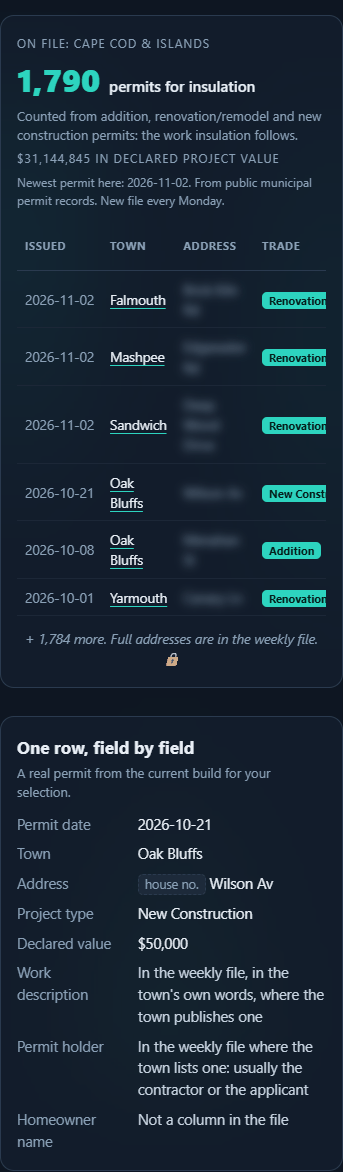
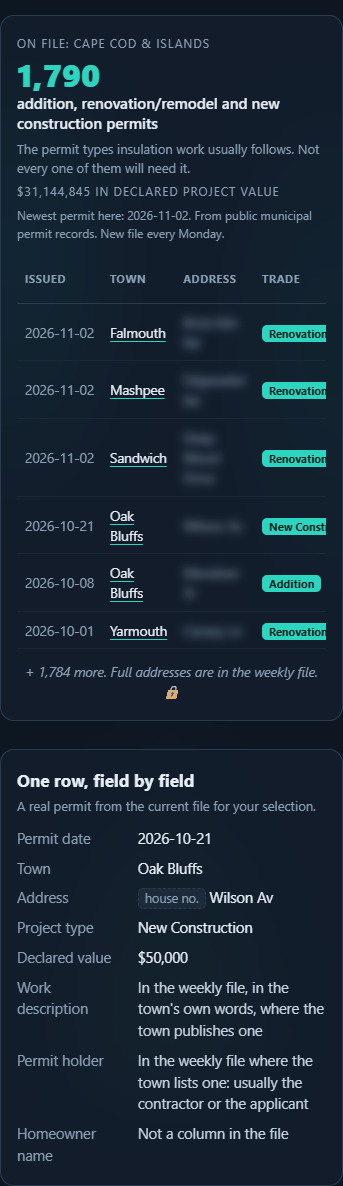
Conversion: fixes from an independent review (quiet towns, village aliases, follow-on count label, softer email wording, escaping, data.json fallback, 16px agents inputs); doc and screenshots updated

diff --git a/index.html b/index.html
@@ -125,8 +125,8 @@
   .secsub{color:var(--muted);margin:0 0 14px;font-size:15px}
   .live{background:var(--panel);border:1px solid var(--border);border-radius:14px;margin:14px 0;padding:18px 16px;min-width:0}
   .live .lbl{font-size:12px;text-transform:uppercase;letter-spacing:.08em;color:var(--muted)}
-  .live .big{font-size:32px;font-weight:800;color:var(--teal);margin:3px 0}
-  .live .big small{font-size:15px;color:var(--text);font-weight:600}
+  .live .big{font-size:32px;font-weight:800;color:var(--teal);margin:3px 0;line-height:1.2}
+  .live .big small{display:inline-block;font-size:15px;color:var(--text);font-weight:600;line-height:1.35}
   .live .types{font-size:13px;color:var(--muted);margin:2px 0 4px}
   table{width:100%;border-collapse:collapse;margin-top:14px;font-size:13.5px}
   th{text-align:left;color:var(--muted);font-size:11px;text-transform:uppercase;letter-spacing:.05em;
@@ -141,7 +141,7 @@
   .lockline{text-align:center;color:var(--muted);font-style:italic;font-size:13.5px;margin:12px 0 0}
   .lockline:empty{display:none}
 
-  /* One real row from the current build, field by field: what the weekly file holds and
+  /* One real row from the current file, field by field: what the weekly file holds and
      what this free page hides. Values come from data.json at run time. */
   .proof{display:grid;grid-template-columns:minmax(0,1fr);gap:14px}
   .rowcard{background:var(--panel);border:1px solid var(--border);border-radius:14px;padding:18px 16px;min-width:0}
@@ -301,12 +301,12 @@
           <input type="email" id="email" name="email" autocomplete="email" inputmode="email" autocapitalize="none" spellcheck="false" placeholder="you@yourcompany.com" aria-describedby="signup-err" required>
         </div>
         <button class="cta" type="submit" id="sample-submit">Send my free sample</button>
-        <p class="fine">You get a download link right here and a copy by email, then two short follow-ups over the next week. Reply stop to end them.</p>
+        <p class="fine">You get a download link right here, and the sample by email, then two short follow-ups over the next week. Reply stop to end them.</p>
       </form>
       <div class="ok" id="signup-ok" tabindex="-1" style="display:none">
         <p class="okhead">&#10003; Got it. Your free sample is ready.</p>
         <a class="cta" id="sample-dl" href="/api/sample">Download the free sample</a>
-        <p class="fine" style="margin-top:10px">It is a ZIP file. Open MassPermits-Leads.html inside it in any web browser; that is easiest on a computer. The same link is in your inbox.</p>
+        <p class="fine" style="margin-top:10px">It is a ZIP file. Open MassPermits-Leads.html inside it in any web browser; that is easiest on a computer. Check your inbox for a copy too.</p>
         <div class="okfeed">
           <p>The weekly file has every full address, every Monday.</p>
           <a class="cta ghost" id="sample-feed-cta" href="#get">Subscribe: $99 a month</a>
@@ -325,7 +325,7 @@
   </div>
 
   <h2 class="sec">What is in the file</h2>
-  <p class="secsub">Live from the current build. This page hides house numbers; the weekly file shows them.</p>
+  <p class="secsub">Live from the current file. This page hides house numbers; the weekly file shows them.</p>
   <div class="proof">
     <div class="live">
       <div class="lbl">On file: <span id="live-area">Massachusetts</span></div>
@@ -346,7 +346,7 @@
 
     <div class="rowcard" id="row-example">
       <h3>One row, field by field</h3>
-      <p class="fine">A real permit from the current build for your selection.</p>
+      <p class="fine">A real permit from the current file for your selection.</p>
       <dl>
         <dt>Permit date</dt><dd id="ex-d">&hellip;</dd>
         <dt>Town</dt><dd id="ex-town">&hellip;</dd>
@@ -362,7 +362,7 @@
 
   <div class="pgrid">
     <div class="pcard"><h3>How fresh</h3><p id="fresh-line">A new file every Monday. Some towns publish monthly or less often, so their permits arrive in batches. Every row shows its permit date.</p></div>
-    <div class="pcard"><h3>Which towns</h3><p id="cov-line">Cities and towns from Cape Cod and the Islands to Western Massachusetts. Not every town publishes permit records we can include, so check yours in the sample form.</p><p><a class="inl" href="/research/coverage">Every town in the file, with its dates</a></p></div>
+    <div class="pcard"><h3>Which towns</h3><p id="cov-line">Cities and towns from Cape Cod to the Berkshires. Not every town publishes permit records we can include, so check yours in the sample form.</p><p><a class="inl" href="/research/coverage" style="display:inline-block;padding:12px 0">Every town in the file, with its dates</a></p></div>
     <div class="pcard"><h3>What it costs</h3><p>$99 a month for the whole file, every trade and every town we cover. Month to month, no contract, cancel anytime. Files already sent are yours to keep.</p></div>
   </div>
 
@@ -423,7 +423,7 @@
     </details>
     <details>
       <summary>Which towns are in it?</summary>
-      <p>Massachusetts cities and towns from Cape Cod and the Islands to Western Massachusetts. <span id="faq-cov"></span>Not every town publishes permit records we can include, so check yours before you pay: type it into the sample form above, or see <a class="inl" href="/research/coverage">every town in the file, with its dates</a>.</p>
+      <p>Massachusetts cities and towns from Cape Cod to the Berkshires. <span id="faq-cov"></span>Not every town publishes permit records we can include, so check yours before you pay: type it into the sample form above, or see <a class="inl" href="/research/coverage">every town in the file, with its dates</a>.</p>
     </details>
     <details>
       <summary>How fresh is it?</summary>
@@ -625,19 +625,19 @@ function render(){
   const word = trade ? lowerWord(trade) : "";
   const typeWords = (pick.types || []).map(lowerWord);
   $("h-area").textContent = area.label;
-  $("h-trade").textContent = pick.kind === "type" ? word + " permits" : pick.kind === "follow" ? "permits for " + word : "building permits";
+  $("h-trade").textContent = pick.kind === "type" ? word + " permits" : "building permits";
   $("live-area").textContent = area.label;
-  if($("p-trade2")) $("p-trade2").textContent = trade ? word : "your trade";
+  if($("p-trade2")) $("p-trade2").textContent = pick.kind === "type" ? word : pick.kind === "follow" ? "the permit types " + word + " follows" : "your trade";
   if($("p-area2")) $("p-area2").textContent = area.label;
   // With no trade chosen the sentence reads "Filter it to your trade and towns." (it
   // read "Filter it to  permits in Massachusetts." before, with an empty trade).
   if($("p-trade3")) $("p-trade3").textContent = pick.kind === "type" ? word + " permits in " + area.label
     : pick.kind === "follow" ? "the " + joinAnd(typeWords) + " permits in " + area.label : "your trade and towns";
   wireBuyButtons();  // refresh Stripe links with current trade/area
-  const unit = escHtml(pick.kind === "type" ? word + " permits" : pick.kind === "follow" ? "permits for " + word : "permits");
+  const unit = escHtml(pick.kind === "type" ? word + " permits" : pick.kind === "follow" ? joinAnd(typeWords) + " permits" : "permits");
   $("live-count").innerHTML = `${(seg.count||0).toLocaleString()} <small>${unit}</small>`;
   $("live-types").textContent = pick.kind === "follow"
-    ? "Counted from " + joinAnd(typeWords) + " permits: the work " + word + " follows." : "";
+    ? "The permit types " + word + " work usually follows. Not every one of them will need it." : "";
   $("live-val").textContent = (seg.total_val > 0) ? fmtMoney(seg.total_val) + " in declared project value" : "";
   if($("freshness")){
     const newest = seg.newest || "", fileNewest = DATA.newest || "";
@@ -654,10 +654,10 @@ function render(){
     // the page exists; villages like Hyannis carry their own slug). Rows
     // without it (older data.json, sub-threshold towns) render as plain text.
     tb.innerHTML = rows.map(t=>`<tr>
-      <td style="color:var(--muted)">${t.d}</td><td>${t.s?`<a class="townlink" href="/permits/${t.s}">${t.city}</a>`:t.city}</td>
-      <td><span class="blur">${t.addr}</span></td>
-      <td><span class="badge">${t.trade}</span></td>
-      <td class="val">${t.val}</td></tr>`).join("");
+      <td style="color:var(--muted)">${escHtml(t.d)}</td><td>${t.s?`<a class="townlink" href="/permits/${encodeURIComponent(t.s)}">${escHtml(t.city)}</a>`:escHtml(t.city)}</td>
+      <td><span class="blur">${escHtml(t.addr)}</span></td>
+      <td><span class="badge">${escHtml(t.trade)}</span></td>
+      <td class="val">${escHtml(t.val)}</td></tr>`).join("");
     // Outside the table, so a phone reads it without scrolling the table sideways.
     $("lockline").textContent = "+ " + Math.max(0,(seg.count||0)-rows.length).toLocaleString() + " more. Full addresses are in the weekly file. \u{1F512}";
   } else {
@@ -700,12 +700,6 @@ function initSelectors(){
     const qt = qp.get("trade") || "", qa = qp.get("area") || "";
     if (qt && (DATA.trade_list.includes(qt) || isFollow(qt))) { SELTRADE = qt; st.value = qt; }
     if (qa && DATA.areas.some(a => a.key === qa)) { SELAREA = qa; sa.value = qa; }
-    // ?town= (2026-11-03): a generated town page can pass its town, so the sample form opens
-    // with it filled in and the town check answers "is my town in it?" before anything is typed.
-    // Tidied by cleanTowns() and written as a field value, never as HTML.
-    const qtown = cleanTowns(qp.get("town") || "");
-    const ti = $("sample-towns");
-    if (qtown && ti && !ti.value) { ti.value = qtown; townCheck(); }
   } catch (_e) {}
   st.onchange = ()=>{ SELTRADE = st.value; render(); keepInUrl(); };
   sa.onchange = ()=>{ SELAREA = sa.value; render(); keepInUrl(); };
@@ -769,8 +763,10 @@ function wireBuyButtons(){
 // "Which towns?" is the first question a buyer asks. The answer comes from the build's
 // own coverage file, the one /research/coverage is made from: every town that reported on
 // the latest run (with its permit count and newest date), the towns that publish monthly or
-// less often, and the towns that returned nothing on the latest run. Nothing is typed here
-// except the neighbourhood and village names below, which are filed under their town.
+// less often, and the towns that returned nothing on the latest run (they have no permits in
+// the file, so the page says exactly that). Nothing is typed here except the neighbourhood
+// and village names below, which are filed under their town. Only villages of a town go in
+// this list: never map one town to another (West Boylston is not Boylston).
 const ALIAS = {
   "allston": "boston", "brighton": "boston", "charlestown": "boston", "dorchester": "boston",
   "east boston": "boston", "hyde park": "boston", "jamaica plain": "boston", "mattapan": "boston",
@@ -778,9 +774,17 @@ const ALIAS = {
   "west roxbury": "boston", "back bay": "boston", "south end": "boston", "north end": "boston",
   "hyannis": "barnstable", "osterville": "barnstable", "centerville": "barnstable", "cotuit": "barnstable",
   "marstons mills": "barnstable", "west barnstable": "barnstable", "barnstable village": "barnstable",
+  "hyannis port": "barnstable", "hyannisport": "barnstable", "cummaquid": "barnstable",
+  "east falmouth": "falmouth", "north falmouth": "falmouth", "west falmouth": "falmouth", "woods hole": "falmouth",
+  "teaticket": "falmouth", "waquoit": "falmouth", "hatchville": "falmouth",
+  "south yarmouth": "yarmouth", "west yarmouth": "yarmouth", "yarmouth port": "yarmouth", "yarmouthport": "yarmouth",
+  "bass river": "yarmouth",
+  "harwich port": "harwich", "harwichport": "harwich", "west harwich": "harwich", "east harwich": "harwich",
+  "north harwich": "harwich", "pleasant lake": "harwich",
+  "east sandwich": "sandwich", "forestdale": "sandwich", "new seabury": "mashpee",
 };
-const normTown = s => String(s || "").toLowerCase().replace(/,?\s*(ma|mass|massachusetts)\.?$/, "")
-  .replace(/[^a-z' -]/g, " ").replace(/\s+/g, " ").trim();
+const normTown = s => String(s || "").toLowerCase().replace(/['’]/g, "").replace(/,?\s*(ma|mass|massachusetts)\.?$/, "")
+  .replace(/[^a-z -]/g, " ").replace(/\s+/g, " ").trim();
 function parseCoverage(j){
   try{
     const s = j && j.stats;
@@ -812,11 +816,9 @@ function renderCoverage(){
   if ($("faq-fresh")) $("faq-fresh").textContent = newest ? "The newest permit on file is dated " + newest + "." : "";
   if (!COV) return;
   const quietN = COV.quiet.size;
-  if ($("cov-line")) $("cov-line").textContent = COV.n + " Massachusetts cities and towns reported in the latest build, with "
-    + fmtNum(COV.rows) + " permits on file."
-    + (quietN ? " " + quietN + " more returned nothing on the latest run." : "")
-    + " Massachusetts has 351 cities and towns, so check yours in the sample form.";
-  if ($("faq-cov")) $("faq-cov").textContent = COV.n + " of them reported in the latest build. ";
+  if ($("cov-line")) $("cov-line").textContent = COV.n + " Massachusetts cities and towns have permits in the current file, "
+    + fmtNum(COV.rows) + " permits in all. Massachusetts has 351 cities and towns, so check yours in the sample form.";
+  if ($("faq-cov")) $("faq-cov").textContent = COV.n + " of them have permits in the current file. ";
 }
 function lookupTown(typed){
   const k = normTown(typed);
@@ -855,7 +857,7 @@ function townCheck(){
         + (r.monthly ? " Publishes monthly or less often, so new permits arrive in batches." : "");
     } else if (r.kind === "quiet") {
       d.className = "quiet";
-      d.textContent = (r.via ? r.via + " is filed under " + r.name : r.name) + ": listed, but it returned nothing on the latest run.";
+      d.textContent = (r.via ? r.via + " is filed under " + r.name : r.name) + ": no permits in the file right now.";
     } else {
       d.textContent = r.name + ": not in the file yet. Leave it in the box; it tells us where people want coverage.";
     }
@@ -870,6 +872,8 @@ async function load(){
     initSelectors(); render();
   }catch(e){
     $("teaser").innerHTML = `<tr><td colspan="5" style="text-align:center;color:var(--muted);padding:16px">Live data loading shortly.</td></tr>`;
+    if ($("row-example")) $("row-example").style.display = "none";
+    if ($("live-count")) $("live-count").textContent = "";
   }
   wireBuyButtons();
   loadCoverage();
@@ -953,6 +957,18 @@ $("signup-form").addEventListener("submit", async e=>{
         : "That didn't work. Please check the email address.";
     }catch(err){ msg.textContent = "Network hiccup. Please try again in a second."; }
   });
+})();
+
+// ?town= (2026-11-03): a generated town page can pass its town, so the sample form opens
+// with it filled in and the town check answers "is my town in it?" before anything is typed.
+// Tidied by cleanTowns() and written as a field value, never as HTML. Runs on its own, so it
+// works even when data.json does not load.
+(function(){
+  try {
+    const qtown = cleanTowns(new URL(location.href).searchParams.get("town") || "");
+    const ti = $("sample-towns");
+    if (qtown && ti && !ti.value) { ti.value = qtown; townCheck(); }
+  } catch (_e) {}
 })();
 
 load();

diff --git a/agents.html b/agents.html
@@ -44,7 +44,7 @@
   .vs td{padding:9px 8px;border-bottom:1px solid #1c2737}
   .vs .us{color:var(--good);font-weight:700}
   form.sample{display:flex;gap:10px;flex-wrap:wrap;margin:14px 0 0}
-  form.sample input[type=email],form.sample input[type=text]{flex:1;min-width:180px;background:#0e1622;border:1px solid var(--border);border-radius:9px;padding:12px 14px;color:var(--text);font-size:14px}
+  form.sample input[type=email],form.sample input[type=text]{flex:1;min-width:180px;background:#0e1622;border:1px solid var(--border);border-radius:9px;padding:12px 14px;color:var(--text);font-size:16px}
   form.sample button{background:var(--teal);color:#04201c;font-weight:800;border:0;border-radius:9px;padding:12px 20px;font-size:14px;cursor:pointer}
   #sample-msg{color:var(--teal);font-size:13px;margin:10px 0 0;display:none}
   .quote{border-left:3px solid var(--teal);padding:4px 0 4px 16px;margin:18px 0;color:#c7d3e0;font-size:15px;font-style:italic}

diff --git a/404.html b/404.html
@@ -34,6 +34,6 @@ a.cta{display:inline-block;margin-top:24px;background:var(--teal);color:#04201c;
     <a class="chip" href="/feed.xml">RSS feed</a>
     <a class="chip" href="/feed/permits.json">JSON API</a>
   </div>
-  <a class="cta" href="/#sample">Get a free sample for your trade and towns &rarr;</a>
+  <a class="cta" href="/#sample">Get a free sample &rarr;</a>
 </div>
 </body></html>

diff --git a/docs/conversion/CONVERSION_2026-11-03.md b/docs/conversion/CONVERSION_2026-11-03.md
@@ -39,9 +39,9 @@ Rendered with Playwright (installed Chrome), 375 by 812 with mobile emulation an
 | Sideways scroll at 375 px (`scrollWidth`) | none (375) on all three pages | none (375) on all three pages |
 | Em dashes a visitor can read | home 8 (+1 in the success message), `offer.html` 1, `/offer/` 3, 404 title 1 | 0 |
 | Exclamation marks a visitor can read | 1 ("Got it[!]" after a sample request) | 0 |
-| `/offer/` page weight | 131,223 bytes, 4 requests (data.json 116,895) | 33,798 bytes, 4 requests (coverage.json 17,710) |
-| Home page weight | 163 KB (HTML 41.6 KB + data.json 117 KB) | 204 KB (HTML 64.8 KB + data.json 117 KB + coverage.json 17.7 KB, fetched after the page loads) |
-| Home page height, 375 px | 5,597 px | 6,949 px (proof section and FAQ answers added) |
+| `/offer/` page weight | 131,223 bytes, 4 requests (data.json 116,895) | 33,819 bytes, 4 requests (coverage.json 17,710) |
+| Home page weight | 163 KB (HTML 41.6 KB + data.json 117 KB) | 206 KB (HTML 66.7 KB + data.json 117 KB + coverage.json 17.7 KB, fetched after the page loads) |
+| Home page height, 375 px | 5,597 px | 6,927 px (proof section and FAQ answers added) |
 
 Byte counts are uncompressed, as served by the local server; Cloudflare compresses HTML and JSON on the wire.
 
@@ -66,7 +66,7 @@ Each change has a before, an after and a reason, and can be kept or dropped on i
 
 **C1.3 Eyebrow line, filled from the visitor's selection**
 - Before: the H1 carried two spans, `<span id="h-area">` and `<span id="h-trade">`, so it read for example "Cape Cod &amp; Islands building permits, sorted into roofing leads and sent every Monday."
-- After: the same two spans move to a small line above the headline: `Massachusetts building permits, every Monday`, which becomes for example `Cape Cod & Islands roofing permits, every Monday`, or `Cape Cod & Islands permits for insulation, every Monday` for a trade with no permit type (C2.3).
+- After: the same two spans move to a small line above the headline: `Massachusetts building permits, every Monday`, which becomes for example `Cape Cod & Islands roofing permits, every Monday`. For a trade with no permit type of its own (C2.3) it stays `Cape Cod & Islands building permits, every Monday`, so it never reads as if insulation had permits of its own.
 - Why: visitors from the generated pages arrive with `?trade=&area=` and should still see their trade and area at once, but the headline itself now has a job of its own (C1.4).
 
 **C1.4 Headline**
@@ -106,16 +106,16 @@ Each change has a before, an after and a reason, and can be kept or dropped on i
 
 **C2.3 Trades and suppliers who have no permit type**
 - Before: the trade list was the 19 permit types in `data.json` (`Addition` ... `Windows/Doors/Siding`). Insulation, drywall, flooring, a lumber yard and a dumpster company found nothing that named them.
-- After: a first option group, `Trades and suppliers after the permit`: Insulation, Drywall and plaster, Flooring and tile, Cabinets and countertops, Painting, Gutters, Sitework and excavation, Dumpsters and hauling, Lumber and building supply. Picking one shows the permit types that work follows, summed, and says which: for Insulation in Cape Cod &amp; Islands the box reads `1,790 permits for insulation` and `Counted from addition, renovation/remodel and new construction permits: the work insulation follows.` The permit types stay in a second group, `Permit types`. `?trade=` accepts both lists.
-- Why: these are the buyers this page is now written for. The count is a sum of whole permit types, never a claim that every one of those permits needs the trade, and the line under it says so. The map is in one `FOLLOW` constant in `index.html`, commented; see owner check K3.
+- After: a first option group, `Trades and suppliers after the permit`: Insulation, Drywall and plaster, Flooring and tile, Cabinets and countertops, Painting, Gutters, Sitework and excavation, Dumpsters and hauling, Lumber and building supply. Picking one shows the permit types that work follows, summed, and says which: for Insulation in Cape Cod &amp; Islands the box reads `1,790 addition, renovation/remodel and new construction permits` and `The permit types insulation work usually follows. Not every one of them will need it.` The price box says `which you filter to the permit types insulation follows`. The permit types stay in a second group, `Permit types`. `?trade=` accepts both lists.
+- Why: these are the buyers this page is now written for. The count is a sum of whole permit types and is labelled with those types, never as "permits for insulation", and the line under it says not every one will need the trade. (A first draft labelled it "permits for insulation"; the review below caught that as an overclaim.) The map is in one `FOLLOW` constant in `index.html`, commented; see owner check K3.
 
 **C2.4 Town check as you type (new)**
 - After: each town typed into `#sample-towns` gets one line, read from `/research/evidence/coverage.json` (the file `/research/coverage` is built from):
   - `✓ Falmouth: 2,400 permits on file, newest dated 2026-11-02.`
   - `✓ Hyannis is filed under Barnstable: 619 permits on file, newest dated 2026-08-31. Publishes monthly or less often, so new permits arrive in batches.`
-  - `Bourne: listed, but it returned nothing on the latest run.`
+  - `Bourne: no permits in the file right now.` (the 17 towns that returned nothing on the latest run have no rows in the file, so the page says exactly that)
   - `Wellfleet: not in the file yet. Leave it in the box; it tells us where people want coverage.`
-  - Boston neighbourhoods and Barnstable villages seen in `data.json` are mapped to their town; `Foxboro` finds Foxborough (a unique prefix of four or more letters).
+  - Villages are mapped to their own town only: Boston neighbourhoods; the Barnstable villages (Hyannis, Osterville, Centerville, Cotuit, Marstons Mills, West Barnstable and others); Falmouth's (East, North and West Falmouth, Woods Hole, Teaticket, Waquoit, Hatchville); Yarmouth's (South and West Yarmouth, Yarmouth Port, Bass River); Harwich's (Harwich Port, East, West and North Harwich, Pleasant Lake); East Sandwich and Forestdale; New Seabury. Apostrophes are ignored (Marston's Mills). One town is never mapped to another: `West Boylston` answers "not in the file yet", not Boylston. `Foxboro` finds Foxborough (a unique prefix of four or more letters).
   - If the file cannot be read: `The town check is not available just now. See every town in the file.` (linked).
 - Why: "which towns?" is the first question a buyer asks, and the honest answer differs per town. Answering it at the moment of asking, from the build's own numbers, beats a paragraph. A visitor whose town is missing finds out before paying, not after.
 
@@ -125,8 +125,8 @@ Each change has a before, an after and a reason, and can be kept or dropped on i
 - Why: no typed count (home-copy H6; the sample build sets the size); says what is hidden, as the sample email already does ("names &amp; street numbers masked"), so the download is not a surprise; drops "opens in any browser", which is not true of a ZIP on a phone (C2.8).
 
 **C2.6 What happens after you press the button (new)**
-- After: `You get a download link right here and a copy by email, then two short follow-ups over the next week. Reply stop to end them.`
-- Why: removes the fear of a mailing list. Matches what the code does: `request-sample.js` sends the sample and the page shows the link; `nurture.js` sends exactly two follow-ups (day 3 and day 7); the emails say to reply "stop".
+- After: `You get a download link right here, and the sample by email, then two short follow-ups over the next week. Reply stop to end them.`
+- Why: removes the fear of a mailing list. Matches what the code does: `request-sample.js` sends the sample and the page shows the link; `nurture.js` sends exactly two follow-ups (day 3 and day 7); the sample email already says to reply "stop". Edge cases where no email goes out (an address enrolled before, more than five requests from one address, more than 50 new requests in a day) still get the download link on the page; see S6 and owner check K7.
 
 **C2.7 Success follows the system that sends the sample**
 - Before: `/api/request-sample` was fired and forgotten; the page showed success only when Web3Forms (the owner notification) said so, and otherwise showed `d?.message||"Something went wrong: please email us directly."`, even though the sample had already gone out. A retry then did nothing, because an address is only ever enrolled once.
@@ -135,7 +135,7 @@ Each change has a before, an after and a reason, and can be kept or dropped on i
 
 **C2.8 Success message**
 - Before: `&#10003; Got it[!] Your free sample is ready [em dash] download it here (also check your inbox).` then `Keep them coming [em dash] Weekly Feed, $99/mo &rarr;` and `A new file arrives every Monday. Cancel anytime.`
-- After: `&#10003; Got it. Your free sample is ready.`, a full-width button `Download the free sample` (`/api/sample`, unchanged), `It is a ZIP file. Open MassPermits-Leads.html inside it in any web browser; that is easiest on a computer. The same link is in your inbox.`, then `The weekly file has every full address, every Monday.`, an outlined `Subscribe: $99 a month` (still the Stripe link with the selection) and `Month to month. Cancel anytime.`
+- After: `&#10003; Got it. Your free sample is ready.`, a full-width button `Download the free sample` (`/api/sample`, unchanged), `It is a ZIP file. Open MassPermits-Leads.html inside it in any web browser; that is easiest on a computer. Check your inbox for a copy too.`, then `The weekly file has every full address, every Monday.`, an outlined `Subscribe: $99 a month` (still the Stripe link with the selection) and `Month to month. Cancel anytime.`
 - Why: the download is a real button, the ZIP is described honestly so a phone user is not stranded (the fix is server change S1), and the next step to the paid file is offered without pressure.
 
 **C2.9 What the request carries**
@@ -150,12 +150,12 @@ Each change has a before, an after and a reason, and can be kept or dropped on i
 
 ### C3. Trust and proof (index.html)
 
-**C3.1 Section heading (new)**: `What is in the file` / `Live from the current build. This page hides house numbers; the weekly file shows them.`
+**C3.1 Section heading (new)**: `What is in the file` / `Live from the current file. This page hides house numbers; the weekly file shows them.`
 
 **C3.2 The live box**
 - Before: lock row inside the table, `+ 72,160 more [em dash] full addresses unlocked in the weekly feed 🔒`; empty state `No permits in this selection yet [em dash] try another trade or area.`; freshness line ending `From public municipal building-permit records. New file every Monday.`
-- After: the lock line sits under the table, `+ 72,160 more. Full addresses are in the weekly file. 🔒`, so a phone reads it without scrolling the table; `No permits in this selection yet. Try another trade or area.`; `From public municipal permit records. New file every Monday.`; the count label and a types line for the follow-on trades (C2.3); the date column no longer wraps.
-- Why: dashes out, readable on a phone, wording held to "public municipal permit records".
+- After: the lock line sits under the table, `+ 72,160 more. Full addresses are in the weekly file. 🔒`, so a phone reads it without scrolling the table; `No permits in this selection yet. Try another trade or area.`; `From public municipal permit records. New file every Monday.`; the count label and a types line for the follow-on trades (C2.3); the date column no longer wraps. The preview values from `data.json` are now escaped before they are written into the table (they come from town records; they were written raw before).
+- Why: dashes out, readable on a phone, wording held to "public municipal permit records", and one less way for odd town data to break the page.
 
 **C3.3 One row, field by field (new)**
 - After: a card filled from the first preview row of the visitor's selection that has a declared value (else the newest): `Permit date 2026-11-02`, `Town Boston`, `Address [house no.] Commonwealth Av`, `Project type Gas`, `Declared value $50,000` (or `Not published by this town`), then `Work description: In the weekly file, in the town's own words, where the town publishes one`, `Permit holder: In the weekly file where the town lists one: usually the contractor or the applicant`, `Homeowner name: Not a column in the file`.
@@ -163,7 +163,7 @@ Each change has a before, an after and a reason, and can be kept or dropped on i
 
 **C3.4 Three proof cards (new)**
 - `How fresh`: `A new file every Monday. The newest permit on file is dated 2026-11-02. 6 towns publish monthly or less often, so theirs arrive in batches. Every row shows its permit date.` (date from `data.json`, count from `coverage.json`).
-- `Which towns`: `81 Massachusetts cities and towns reported in the latest build, with 72,166 permits on file. 17 more returned nothing on the latest run. Massachusetts has 351 cities and towns, so check yours in the sample form.` plus a link to `/research/coverage`.
+- `Which towns`: `81 Massachusetts cities and towns have permits in the current file, 72,166 permits in all. Massachusetts has 351 cities and towns, so check yours in the sample form.` plus a link to `/research/coverage` (fallback in the HTML: `Cities and towns from Cape Cod to the Berkshires. Not every town publishes permit records we can include, so check yours in the sample form.`).
 - `What it costs`: `$99 a month for the whole file, every trade and every town we cover. Month to month, no contract, cancel anytime. Files already sent are yours to keep.`
 - Each has a plain-words fallback in the HTML if a file cannot be read. No number is typed into the page (the head comment explaining why is kept and updated).
 - Why: freshness, coverage stated honestly, and cancel anytime, as the brief asks. Saying "81 of 351" out loud costs less than a buyer discovering it after paying, and the town check is right there.
@@ -191,7 +191,7 @@ Each change has a before, an after and a reason, and can be kept or dropped on i
 `Often, for the trade named on the permit. The rest of the job usually is not. An addition or a gut remodel still needs insulation, drywall, flooring and cabinets after the framing permit. A new house needs sitework, gutters and often solar. Every one of those jobs buys lumber and materials from a supply yard. The file gives you the address, project type and date, plus the permit holder (usually the contractor or applicant) where the town lists one, so you can reach the job, or the contractor who pulled the permit, before the next trade is picked.` (home-copy H2, adjusted)
 
 **C4.3 New: `Which towns are in it?`**
-`Massachusetts cities and towns from Cape Cod and the Islands to Western Massachusetts. 81 of them reported in the latest build. Not every town publishes permit records we can include, so check yours before you pay: type it into the sample form above, or see every town in the file, with its dates.` (the count is live; the sentence reads correctly without it)
+`Massachusetts cities and towns from Cape Cod to the Berkshires. 81 of them have permits in the current file. Not every town publishes permit records we can include, so check yours before you pay: type it into the sample form above, or see every town in the file, with its dates.` (the count is live; the sentence reads correctly without it)
 
 **C4.4 Rewritten: `How fresh is it?`** (was `How recent are they?`)
 Before: `The weekly feed arrives every Monday, and you filter it to your trade and towns. Each town publishes on its own schedule, and some publish monthly or less often, so their permits arrive in batches when the town publishes. Every row shows its date, and the coverage page names the towns that publish monthly and shows each town's date range.`
@@ -225,7 +225,7 @@ Why: the rule allows "public municipal permit records" and nothing about how; "g
 ### C5. Phone layout at 375 px (index.html)
 
 - **C5.1** Every form field is 16 px: trade and area selects (were 14), towns (new), sample email (was 15), digest email (was 14), and the hidden honeypot. iOS Safari no longer zooms on focus.
-- **C5.2** Tap targets: fields 48 px tall, buttons 52 to 60 px, the first-screen sample action 56 px (was a 20 px text link), FAQ rows at least 44 px, the price-box sample link 47 px.
+- **C5.2** Tap targets: fields 48 px tall, buttons 52 to 60 px, the first-screen sample action 56 px (was a 20 px text link), FAQ rows at least 44 px, the price-box sample link 47 px, the coverage-page link in the proof card 46 px.
 - **C5.3** No sideways scroll: `scrollWidth` 375 on the home page, `offer.html` and `/offer/`, before and after. The grid columns use `minmax(0, 1fr)` so a long word cannot widen the page; the preview table still scrolls inside its own box.
 - **C5.4** The preview table's date column does not wrap, and the "+ N more" line is outside the scrolling box (C3.2).
 - **C5.5** The digest form puts its email field on its own row on a phone (it was squeezed to about 145 px beside the button).
@@ -263,7 +263,8 @@ Why: the rule allows "public municipal permit records" and nothing about how; "g
 
 - **C9.1** `agents.html`: `plus the name on the permit where the town lists one` becomes `plus the permit holder (usually the contractor or applicant) where the town lists one` (home-copy A1; "the name on the permit" reads as the homeowner).
 - **C9.2** `404.html` title: `Page not found [em dash] MassPermits` becomes `Page not found | MassPermits`.
-- **C9.3** `404.html` button: `Find leads in your trade &rarr;` (to `/`) becomes `Get a free sample for your trade and towns &rarr;` (to `/#sample`). A visitor on a dead link is one tap from the form.
+- **C9.3** `404.html` button: `Find leads in your trade &rarr;` (to `/`) becomes `Get a free sample &rarr;` (to `/#sample`). A visitor on a dead link is one tap from the form.
+- **C9.4** `agents.html`: the sample form's email and town inputs go from 14 px to 16 px, so iOS stops zooming on them (the same rule as C5.1).
 
 ## Not changed, on purpose
 
@@ -284,7 +285,7 @@ Why: the rule allows "public municipal permit records" and nothing about how; "g
 - **S1. Make the free sample open on a phone** (audit change 2). Add `?view=1` to `functions/api/sample.js` that streams the dashboard HTML from the same R2 object with `Content-Type: text/html`, as `functions/leads.js` already does for subscribers. Then the success message becomes `Got it. Open your free sample (it opens in this browser). The same link is in your inbox.` and the ZIP becomes the second link. This is the most valuable server change on the sample path.
 - **S2. Store and use `towns`** in `functions/api/request-sample.js`: accept a string of at most 160 characters matching `^[A-Za-z' .,-]*$`, store it on the `prospects/<email>` object and its `customMetadata`, and print it in `notifyOwner`. Later, cut the sample to the visitor's towns and trade (audit change 3).
 - **S3. Widen the whitelists** in `request-sample.js`: `AREAS` lacks `metrowest`, `northshore`, `central` and `western` (four of the seven `data.json` regions), so those selections are stored as empty today; `TRADES` lacks `Septic`, `Building` and `Asbestos`, and would need the nine follow-on labels from C2.3 (or a mapping) to keep them.
-- **S4. Correct the sample email**: `~45 towns` (the coverage page says 81 sources reported in the latest build) and `the name on the permit` (audit changes 7 and 8). Say it is a ZIP and how to open it until S1 ships.
+- **S4. Correct the sample email**: `~45 towns` (the coverage page lists 81 reporting sources) and `the name on the permit` (audit changes 7 and 8). Say it is a ZIP and how to open it until S1 ships.
 - **S5. Nurture emails** (audit change 14): drop "every competitor's ... value" and "(Boston, Cape Cod, the South Shore)".
 - **S6. Optional:** return `{ok:true, sent:false}` when an address was already enrolled, so the page can say "we sent it to you earlier; here is the link again".
 - **S7. Phone access for subscribers:** link the `/leads` portal from the welcome and Monday emails. Until then the site does not claim the paid file opens on a phone.
@@ -313,6 +314,7 @@ The refresh bot regenerates the town, region, project and guide pages, so these 
 - **K4.** Showing "Massachusetts has 351 cities and towns" next to the live count is deliberate honesty. Keep it or drop that sentence.
 - **K5.** `≈ $23 a week` in the price box was kept as it was. It is the same $99 a month, but if the rule is that only "$99 a month" may appear, delete that line.
 - **K6.** The title now says "for trades and suppliers" where it said "for MA contractors". Watch Search Console for the home page's queries for a few weeks.
+- **K7.** "Reply stop to end them" repeats what the sample email already promises; `nurture.js` has no automatic opt-out, so a "stop" reply is honoured by hand. And the page shows the download link and "check your inbox for a copy too" even in the rare cases where the function enrols nobody (an address seen before, the per-address limit, the 50-a-day cap). Server change S6 would let the page tell those apart.
 
 ## Screenshots
 
@@ -337,8 +339,24 @@ The "after a request" shots use a local stub that answers `/api/request-sample` 
 
 - The repo's tests that read these pages, `node --test test/promo-switch.test.mjs test/growth/hit.test.mjs test/growth/review.test.mjs`: 27 of 27 pass (they hold the promo switch, the checkout button ids, the one `buy-click.js` per page with a Stripe link, and the `/offer` beacons).
 - The whole suite, `node --test "test/**/*.test.mjs"`: 427 tests, 411 pass, 16 skipped, 0 fail, the same as `main` before the change. One later full run had 1 failure in `test/manual/store.test.mjs` ("index concurrency: two interleaved writers both land"), a timing test of `functions/api/_manual_store.js`, which this change does not touch; it passed 5 of 5 times on its own, and claude/home-copy reports the same flake on `main`. (Run with LF line endings; on a Windows checkout with `core.autocrlf=true` the `_headers` test fails on `main` too, because it looks for `\n`.)
-- Behaviour checks in a real browser against the local server (34 of 34 pass): prefill from `?trade=&area=` and `?town=`; the eyebrow and the Stripe `client_reference_id` follow the selection; the town check for a live town, a village alias, a prefix, a quiet town and a missing town; the request body keeps `email`, `trade`, `area`, `company` and adds `towns`; success when only the function answers and when only Web3Forms answers; "check the email" on a 400 with the button restored; the error with a written route when both fail; a bad address stopped before any request; unknown `?trade=` and `?area=` ignored; markup in `?town=` reduced to letters; the page still works with `coverage.json` or `data.json` missing; no page errors and no request leaving the machine.
+- Behaviour checks in a real browser against the local server (39 of 39 pass): prefill from `?trade=&area=` and `?town=`; the eyebrow and the Stripe `client_reference_id` follow the selection; the follow-on count names the permit types it sums; the town check for a live town, village aliases (Hyannis, East Falmouth, Marston's Mills), a prefix (Foxboro), a quiet town (Bourne), a missing town (Wellfleet) and a neighbouring town that must not be mapped (West Boylston); the request body keeps `email`, `trade`, `area`, `company` and adds `towns`; success when only the function answers and when only Web3Forms answers; "check the email" on a 400 with the button restored; the error with a written route when both fail; a bad address stopped before any request; unknown `?trade=` and `?area=` ignored; markup in `?town=` reduced to letters; the page still works with `coverage.json` or `data.json` missing; no page errors and no request leaving the machine.
 - Copy check over the visible text and script strings of all five pages: no em or en dash, no exclamation mark, no price but $99 a month (and the existing `≈ $23 a week`), no promo word, no call or Zoom offer; every "homeowner name" mention is a statement that there is none.
+
+## Independent review
+
+A separate read-only review of the page diff (fresh context, given the code and the rules, not this write-up) reported nine findings. Fixed on this branch:
+
+- Quiet towns were told they were "listed"; they have no rows in the file. Now `no permits in the file right now`, and the coverage card no longer counts them.
+- Village names of covered towns (East Falmouth, South Yarmouth, Harwich Port, Marston's Mills with the apostrophe) answered "not in the file yet". Added, with the rule that a separate town is never mapped to a neighbour.
+- The follow-on count read "1,790 permits for insulation". Now labelled with the permit types it sums; the price-box line likewise.
+- "A copy by email" and "the same link is in your inbox" were stated as certain; now softer (C2.6, C2.8), with the edge cases in K7.
+- The 404 button said "for your trade and towns" (the sample is not cut to them). Now `Get a free sample`.
+- Preview values from `data.json` were written into the table unescaped (this predates the change). Now escaped.
+- If `data.json` failed, the example row showed an ellipsis forever and `?town=` did nothing. The row hides, and `?town=` runs on its own.
+- "Latest build" wording on the page described the pipeline; now "current file". "Cape Cod and the Islands to Western Massachusetts" became "Cape Cod to the Berkshires" (one island town reports).
+- `agents.html` form inputs at 14 px; now 16 px (C9.4).
+
+Left as they are, with the reason: the server drops the new trade and area values and the towns (S2, S3: `functions/` is out of scope; the Web3Forms notice carries them today); `≈ $23 a week` (K5); the 404 chips at about 40 px and the selects cutting long option text on a phone (both predate this change and are cosmetic); the sample email's "~45 towns" and "name on the permit" (S4).
 
 ## Method
 
